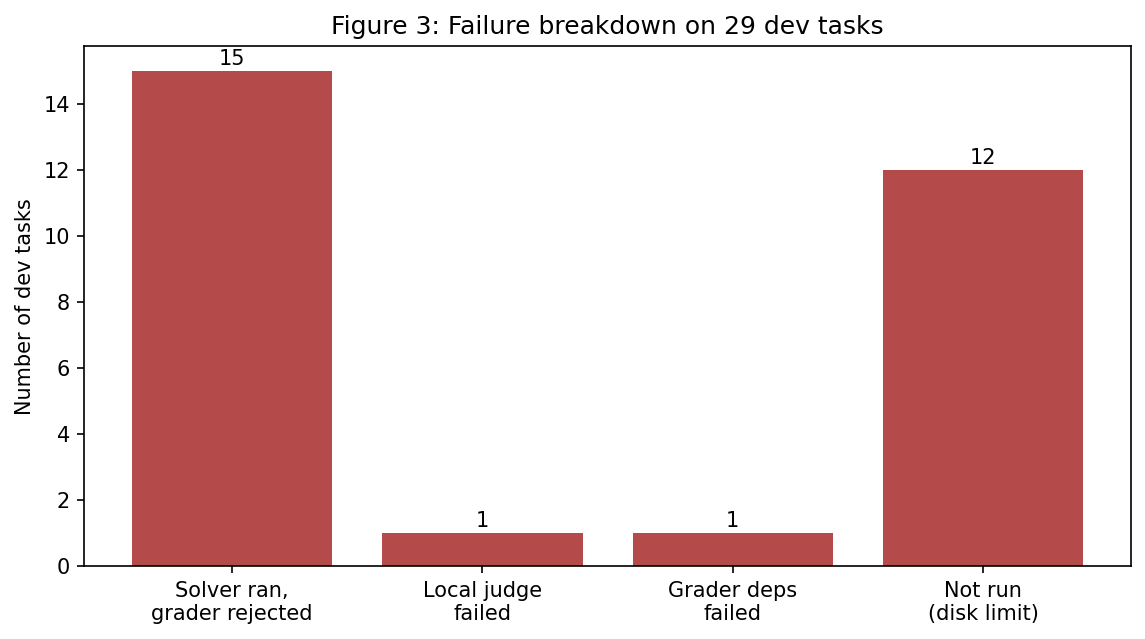
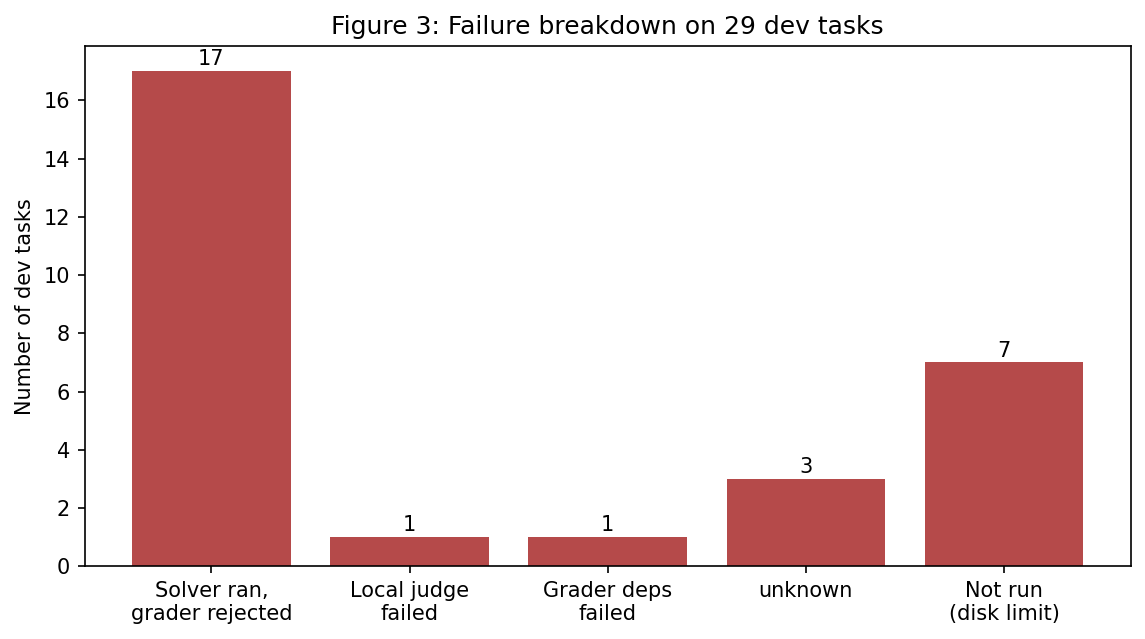
feat: add five measured heavy-task artifacts and correct failure breakdown

diff --git a/WRITEUP.md b/WRITEUP.md
@@ -22,12 +22,13 @@ Our harness fails closed. `hard_gate()` recomputes every numeric ratio from the 
 and rejects a report whose claimed `gate=1` disagrees with the recomputation. Three local tests
 prove: a steel deliverable passes, a fabricated `gate=1` with a 1e12 ratio is rejected, and an
 unmapped task (a poem about bridges) writes `gate=0`. Against the real dev set, the measured
-breakdown in Figure 3 is: 15 tasks where a solver ran and the grader rejected its deliverable,
+breakdown in Figure 3 is: 17 tasks where a solver ran and the grader rejected its deliverable,
 one rubric task whose local judge failed after three attempts, one whose grader dependencies
-would not install, and 12 heavy rubric tasks we could not run locally because the Docker images
-exhausted the host disk. Those 12 count 0, exactly as the leaderboard treats unmeasured tasks.
-One task (`landscape-sheet-revision`) did score 0.636 from the local judge — a real, measured
-result, not a simulation.
+would not install, three further heavy tasks whose local result was not classifiable, and 7 heavy
+rubric tasks we could not run locally because their Docker verifier images exhausted the host
+disk. Five heavy tasks did complete, all scoring 0. The 7 unmeasured ones count 0, exactly as the
+leaderboard treats unmeasured tasks. One task (`landscape-sheet-revision`) scored 0.636 from the
+local judge — a real, measured result, not a simulation.
 
 Controlled comparison available: the four deterministic solvers are known-answer tested
 (`test_solvers.py`, 7 tests). They are real AISC 360 / NEC 2023 / Darcy-Weisbach / prismoidal

diff --git a/artifacts/fire-solve-convergence/final_message.md b/artifacts/fire-solve-convergence/final_message.md
@@ -1,0 +1,1 @@
+Deterministic solver failed: no deterministic solver for kind='unknown'. No deliverable submitted (gate=0).

diff --git a/artifacts/les-mesh-resolution/final_message.md b/artifacts/les-mesh-resolution/final_message.md
@@ -1,0 +1,1 @@
+Deterministic solver failed: no deterministic solver for kind='unknown'. No deliverable submitted (gate=0).
